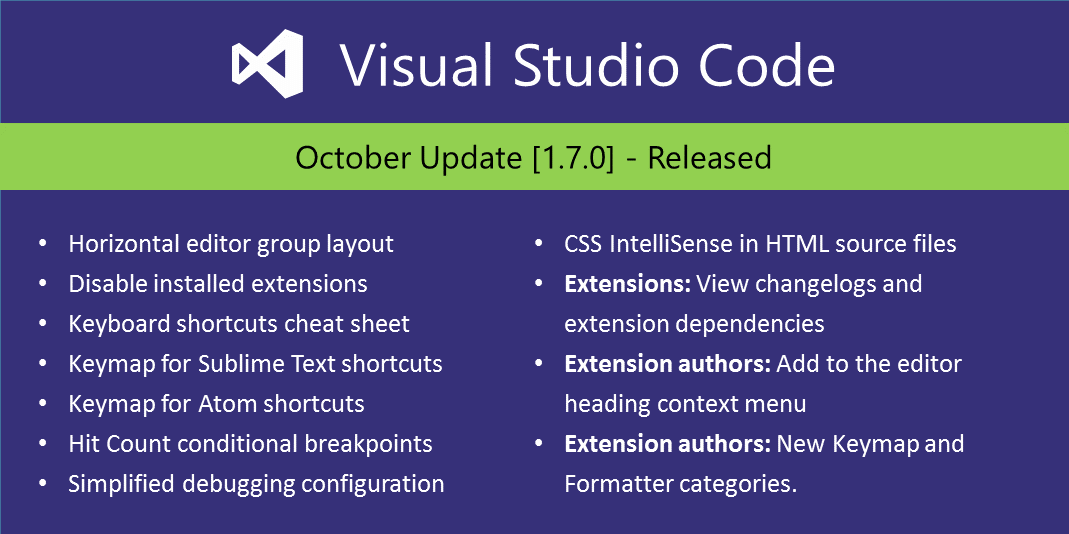
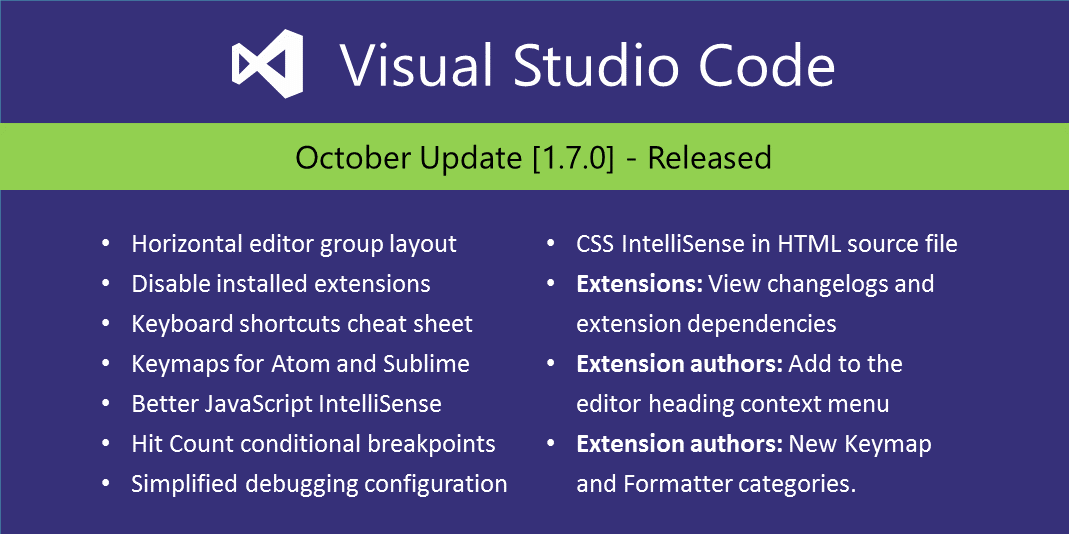
Add 1.7.2 recovery build notes

diff --git a/release-notes/v1_7.md b/release-notes/v1_7.md
@@ -8,11 +8,19 @@ MetaSocialImage: 1_7_release-highlights.png
 
 # October 2016 (version 1.7)
 
+# 1.7.2 Recovery Build
+
+We are releasing 1.7.2 today which includes a new version of the TypeScript Server (to 2.0.8). The update to the server will re-enable the Automatic Type Acquisition (ATA) feature by default for JavaScript users. This feature greatly improves the IntelliSense in JavaScript projects and removes the need to manually install TypeScript declaration files (.d.ts files). This feature is powered by a query to the npmjs service to retrieve relevant declaration files for used modules.  More details in relation to this feature, including details on how to disable it are [included in the relevant section of these release notes](#better-javascript-intellisense).
+
+The 1.7.2 release also adds the final 1.7 translations and fixes several important [issues](https://github.com/Microsoft/vscode/milestone/32?closed=1).
+
 ## 1.7.1 Recovery Build
 
 We are releasing a 1.7.1 recovery build to disable the automatic JavaScript typings file acquisition [feature](#better-javascript-intellisense). We need to tune the acquisition to avoid unnecessary load on the NPM registry and we're working closely with the TypeScript and npmjs.org teams. We expect to enable this feature in a future release.
 
 If you're curious about the details, you can read our [blog post](http://code.visualstudio.com/blogs/2016/11/3/rollback) describing the event and NPM and VS Code's mitigations.
+
+Downloads: [Windows](https://vscode-update.azurewebsites.net/1.7.1/win32/stable) | [Mac](https://vscode-update.azurewebsites.net/1.7.1/darwin/stable) | Linux 64-bit: [.tar.gz](https://vscode-update.azurewebsites.net/1.7.1/linux-x64/stable) [.deb](https://vscode-update.azurewebsites.net/1.7.1/linux-deb-x64/stable) [.rpm](https://vscode-update.azurewebsites.net/1.7.1/linux-rpm-x64/stable) | Linux 32-bit: [.tar.gz](https://vscode-update.azurewebsites.net/1.7.1/linux-ia32/stable) [.deb](https://vscode-update.azurewebsites.net/1.7.1/linux-deb-ia32/stable) [.rpm](https://vscode-update.azurewebsites.net/1.7.1/linux-rpm-ia32/stable)
 
 ## October Release Summary
 
@@ -112,7 +120,7 @@ We've added a new `Formatters` [category](#formatters-category) to the Marketpla
 
 >**Note:** This feature was disabled in the 1.7.1 build. Read on to learn what's coming in a future release.
 
-VS Code uses the TypeScript language server to provide IntelliSense in JavaScript files. In the past, you had to create a `jsconfig.json` file. You also had to manually install typings (Type Definition) files for all the modules and libraries you were using. That's not an easy chore, particularly when you are a pure JavaScript developer.
+VS Code uses the TypeScript language server to provide IntelliSense in JavaScript files. In the past, you had to create a `jsconfig.json` file. You also had to manually install typings (Type Declaration) files for all the modules and libraries you were using. That's not an easy chore, particularly when you are a pure JavaScript developer.
 
 We talked with our friends on the TypeScript team and they came up with "Automatic Type Acquisition". ATA makes typings files almost invisible. A TypeScript language server that has ATA enabled watches your `package.json` files and automatically installs the typings files of all dependencies in a cache on your file system. It does the same when it finds references to well known client-side libraries. When you then invoke IntelliSense, the TypeScript server uses the typings files in the cache. The cache is shared between all your workspaces. Without a `jsconfig.json` file the TypeScript server assumes that everything in your workspace belongs to the same project.
 
@@ -124,6 +132,7 @@ Here are a few points you should be aware of when using ATA:
 - ATA acquires the latest available version of the typings files. If you depend on an older version of a library or module then there can be discrepancies between the actual API exposed by the library or module and the API described in the typings file. If you require a specific version of a typings files, you can install it manually: `npm install @types/<module name>@x.y.z`.
 - An increasing number of npm modules bundle their typings files, meaning the only way to acquire the typings is by installing the module. ATA does not install npm modules for you, so you have to do it yourself.
 - There is a short delay between when a change is made to the dependencies in a `package.json` file and when the corresponding typings file is acquired and available for IntelliSense.
+- In the implementation, the ATA feature first queries npmjs for a module that includes a list of known declaration files. If your project includes any of these modules, their declaration files will be pulled down and added to the global cache.
 
 ### CSS completions in HTML
 
